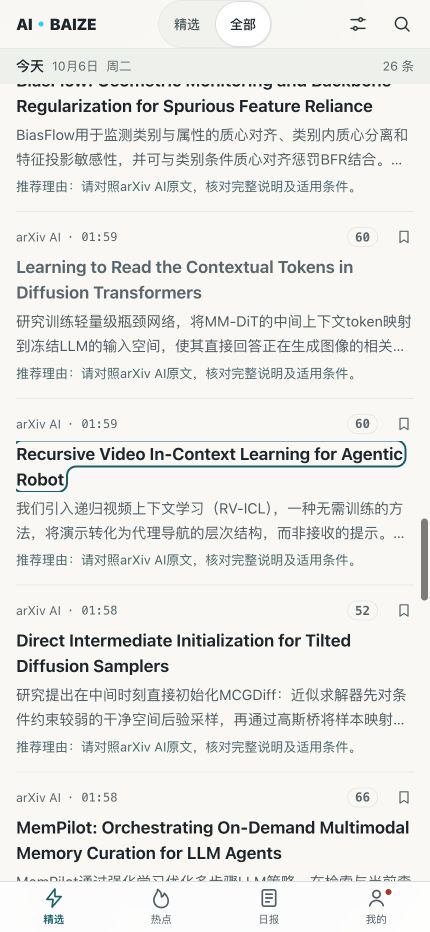
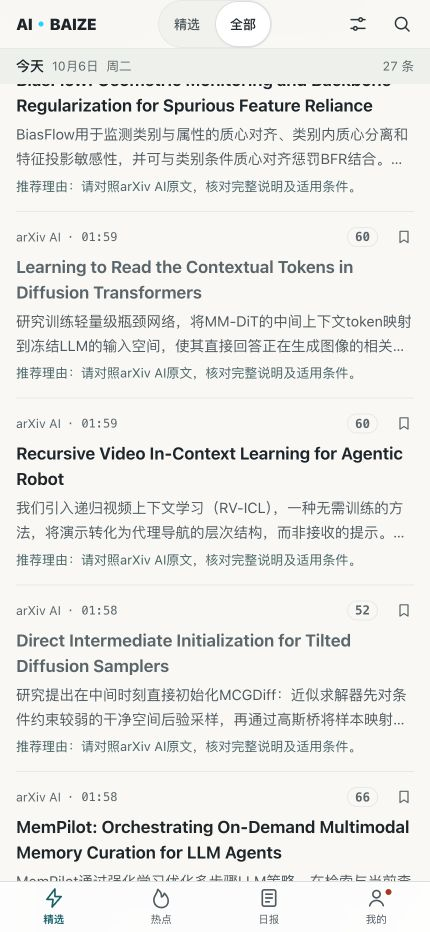
docs: record independent summary queue continuation and mobile verification

diff --git a/docs/rebuild/2026-10-06-summary-queue-fix.md b/docs/rebuild/2026-10-06-summary-queue-fix.md
@@ -27,6 +27,7 @@
 - HTTPS 页面、公开接口、静态资源、海报及管理边界 **80 项**通过：[部署检查](2026-10-06-summary-queue-smoke.json)。
 - 9 条摘要的公开详情接口与核对稿逐字匹配：[专项线上检查](2026-10-06-summary-queue-verification.json)。
 - 第一批正常后台增强于 `2026-10-06T08:14:36.658Z` 完成：20 条成功、0 条失败，其中 16 条本地模型结果、4 条已有中文原文。批次完成前已实际观察到多条摘要写回，覆盖优先来源、低分论文和旧模型更新。
+- 最终部署后的批次于 `08:27:00Z` 完成：17 条成功、3 条拒绝，失败分别为超时、无依据数量、错误数字占位符。到 `08:29:50Z`，新的摘要已保存，而最近采集时间仍为 `08:21:27Z`，证明下一批在采集之间独立推进。拒绝结果未算成功，见[续跑记录](2026-10-06-summary-queue-continuation.json)。
 - 手机尺寸 430×932 实测“全部”与论文详情。列表证据显示新摘要，保留来源与原文入口：
 
 ![手机全部列表](evidence/2026-10-06-summary-all-mobile.png)
